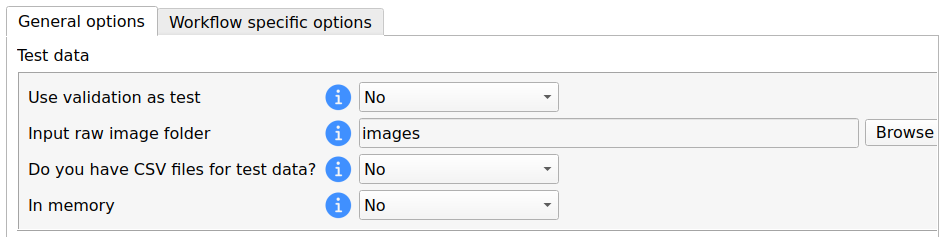
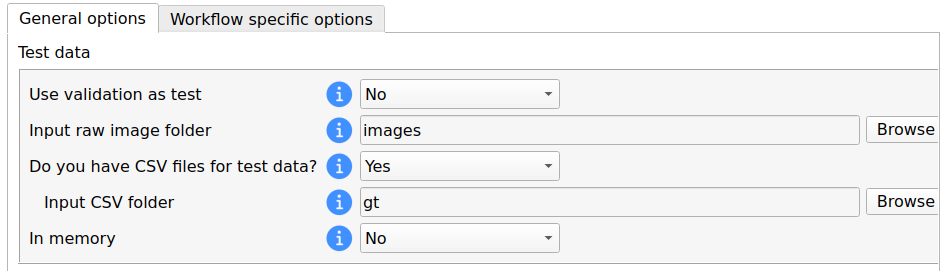
Update detection documentation with GUI 1.1.0 images and text.

Changed region(s): [[0.0, 0.0, 1.0, 1.0], [0.5547, 0.8565, 0.5855, 0.8861]]

diff --git a/source/workflows/detection.rst b/source/workflows/detection.rst
@@ -306,7 +306,7 @@ To define such set, there are two options:
       .. tabs::
         .. tab:: GUI
 
-          Under *Workflow*, select *Object detection*, click twice on *Continue*, and under *General options* > *Validation data*, select "Extract from train (split training)" in **Validation type**, and introduce your value in the **Train percentage for validation**:
+          Under *Workflow*, select *Object detection*, click twice on *Continue*, and under *General options* > *Advanced options* > *Validation data*, select "Extract from train (split training)" in **Validation type**, and introduce your value in the **Train percentage for validation**:
 
           .. image:: ../img/GUI-validation-percentage.png
             :align: center
@@ -332,7 +332,7 @@ To define such set, there are two options:
       .. tabs::
         .. tab:: GUI
 
-          Under *Workflow*, select *Object detection*, click twice on *Continue*, and under *General options* > *Validation data*, select "Not extracted from train (path needed)" in **Validation type**, click on the *Browse* button of **Input raw image folder** and select the folder containing your validation raw images:
+          Under *Workflow*, select *Object detection*, click twice on *Continue*, and under *General options* > *Advanced options* > *Validation data*, select "Not extracted from train (path needed)" in **Validation type**, click on the *Browse* button of **Input raw image folder** and select the folder containing your validation raw images:
 
           .. image:: ../img/detection/GUI-validation-paths.png
             :align: center
@@ -378,14 +378,14 @@ Do you have annotations (CSV files with the object coordinates) for the test set
   .. tabs::
     .. tab:: GUI
 
-      Under *Workflow*, select *Object detection*, three times *Continue*, under *General options* > *Test data*, select "Yes" in the **Do you have CSV files for test data?** field:
+      Under *Workflow*, select *Object detection*, three times *Continue*, under *General options* > *Test data*, select "Yes" or "No" in the **Do you have CSV files for test data?** field:
 
       .. image:: ../img/detection/GUI-test-data.png
         :align: center
 
     .. tab:: Google Colab / Notebooks
       
-      In either the 2D or the 3D detection notebook, go to *Configure and train the DNN model* > *Select your parameters*, and select the **test_ground_truth** option:
+      In either the 2D or the 3D detection notebook, go to *Configure and train the DNN model* > *Select your parameters*, and check or uncheck the **test_ground_truth** option:
       
       .. image:: ../img/detection/Notebooks-model-name-data-conf.png
         :align: center
@@ -394,7 +394,7 @@ Do you have annotations (CSV files with the object coordinates) for the test set
 
     .. tab:: YAML configuration file
       
-      Set the variable ``DATA.TEST.LOAD_GT`` to ``True``.
+      Set the variable ``DATA.TEST.LOAD_GT`` to ``True`` if you have test annotations, and ``False`` if you do not.
 
 
 \
@@ -410,11 +410,10 @@ At the core of each BiaPy workflow there is a deep learning model. Although we t
         .. tabs::
           .. tab:: GUI
 
-            Under *Workflow*, select *Object detection*, click twice on *Continue*, and under *General options*, scroll down to *Advanced options*, and edit the last value of the field **Patch size** with the number of channels. This variable follows a ``(y, x, channels)`` notation in 2D and a ``(z, y, x, channels)`` notation in 3D:
+            Under *Workflow*, select *Object detection*, click twice on *Continue*, and under *General options* > *Train data*, edit the last value of the field **Data patch size** with the number of channels. This variable follows a ``(y, x, channels)`` notation in 2D and a ``(z, y, x, channels)`` notation in 3D:
 
-            .. image:: ../img/GUI-advanced-options.png
+            .. image:: ../img/detection/GUI-train-data.png
               :align: center
-              :width: 75%
 
           .. tab:: Google Colab / Notebooks
             
@@ -435,11 +434,10 @@ At the core of each BiaPy workflow there is a deep learning model. Although we t
         .. tabs::
           .. tab:: GUI
 
-            Under *Workflow*, select *Object detection*, click twice on *Continue*, and under *General options*, scroll down to *Basic training parameters*, and edit the field **Number of epochs**:
+            Under *Workflow*, select *Object detection*, click twice on *Continue*, and under *General options*, click on *Advanced options*, scroll down to *Basic training parameters*, and edit the field **Number of epochs**:
 
             .. image:: ../img/GUI-basic-training-params.png
               :align: center
-              :width: 75%
 
           .. tab:: Google Colab / Notebooks
             
@@ -460,11 +458,10 @@ At the core of each BiaPy workflow there is a deep learning model. Although we t
         .. tabs::
           .. tab:: GUI
 
-            Under *Workflow*, select *Object detection*, click twice on *Continue*, and under *General options*, scroll down to *Basic training parameters*, and edit the field **Patience**:
+            Under *Workflow*, select *Object detection*, click twice on *Continue*, and under *General options*, click on *Advanced options*, scroll down to *Basic training parameters*, and edit the field **Patience**:
 
             .. image:: ../img/GUI-basic-training-params.png
               :align: center
-              :width: 75%
 
           .. tab:: Google Colab / Notebooks
             
@@ -610,7 +607,7 @@ Advanced Parameters
 *******************
 Many of the parameters of our workflows are set by default to values that work commonly well. However, it may be needed to tune them to improve the results of the workflow. For instance, you may modify the following parameters
 
-* **Model architecture**: Select the architecture of the deep neural network used as backbone of the pipeline. Options: U-Net, Residual U-Net, Attention U-Net, SEUNet, MultiResUNet, ResUNet++, UNETR-Mini, UNETR-Small and UNETR-Base. Default value: Residual U-Net.
+* **Model architecture**: Select the architecture of the deep neural network used as backbone of the pipeline. Options: U-Net, Residual U-Net, Attention U-Net, SEUNet, MultiResUNet, ResUNet++, UNETR-Mini, UNETR-Small, UNETR-Base and U-NeXt V1. Common choice: Residual U-Net.
 * **Batch size**: This parameter defines the number of patches seen in each training step. Reducing or increasing the batch size may slow or speed up your training, respectively, and can influence network performance. Common values are 4, 8, 16, etc.
 * **Patch size**: Input the size of the patches use to train your model (length in pixels in X and Y). The value should be smaller or equal to the dimensions of the image. The default value is 256 in 2D, i.e. 256x256 pixels.
 * **Optimizer**: Select the optimizer used to train your model. Options: ADAM, ADAMW, Stochastic Gradient Descent (SGD). ADAM usually converges faster, while ADAMW provides a balance between fast convergence and better handling of weight decay regularization. SGD is known for better generalization. Default value: ADAMW.
